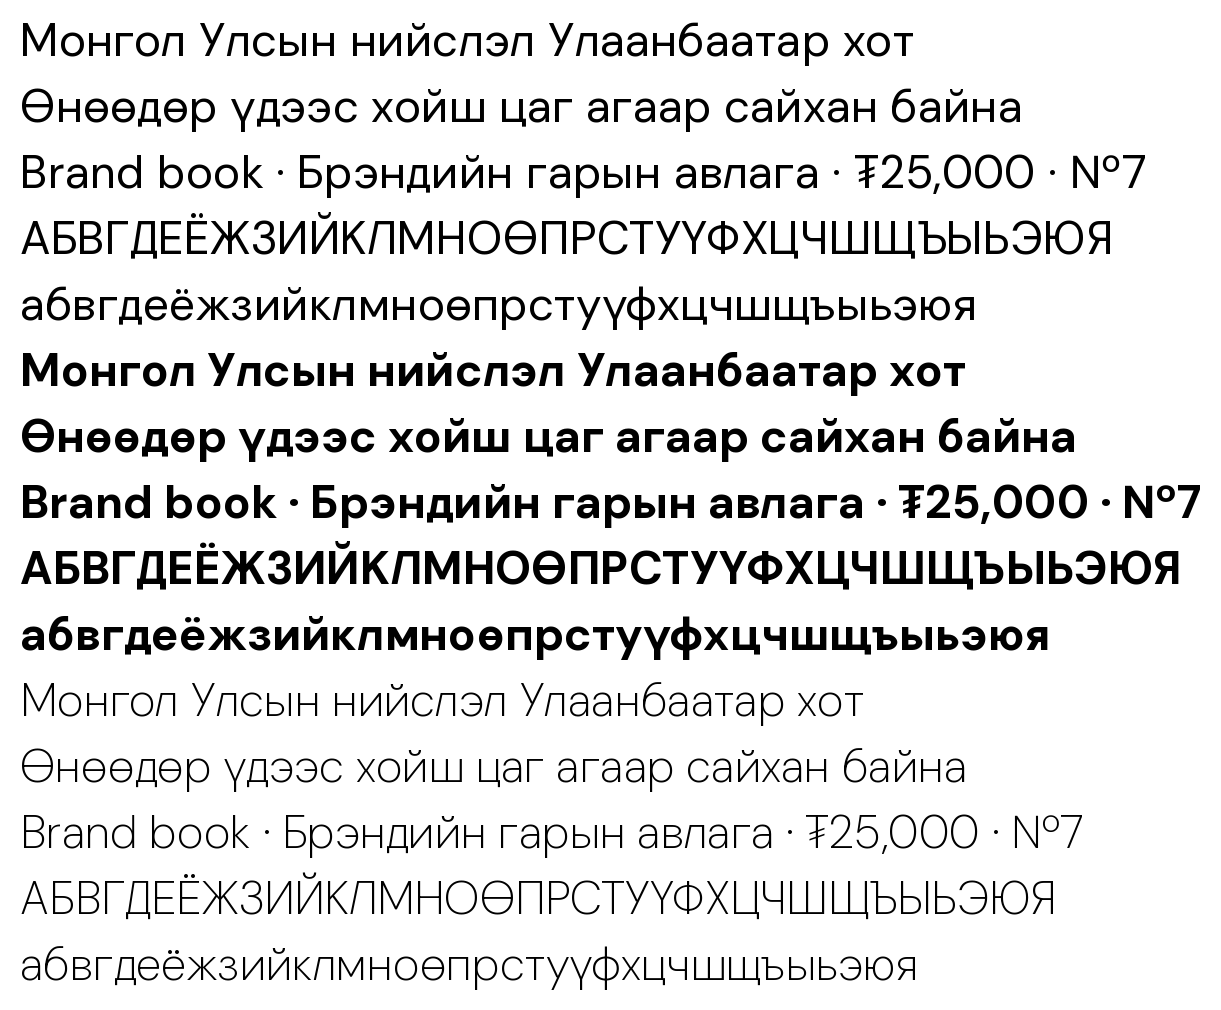
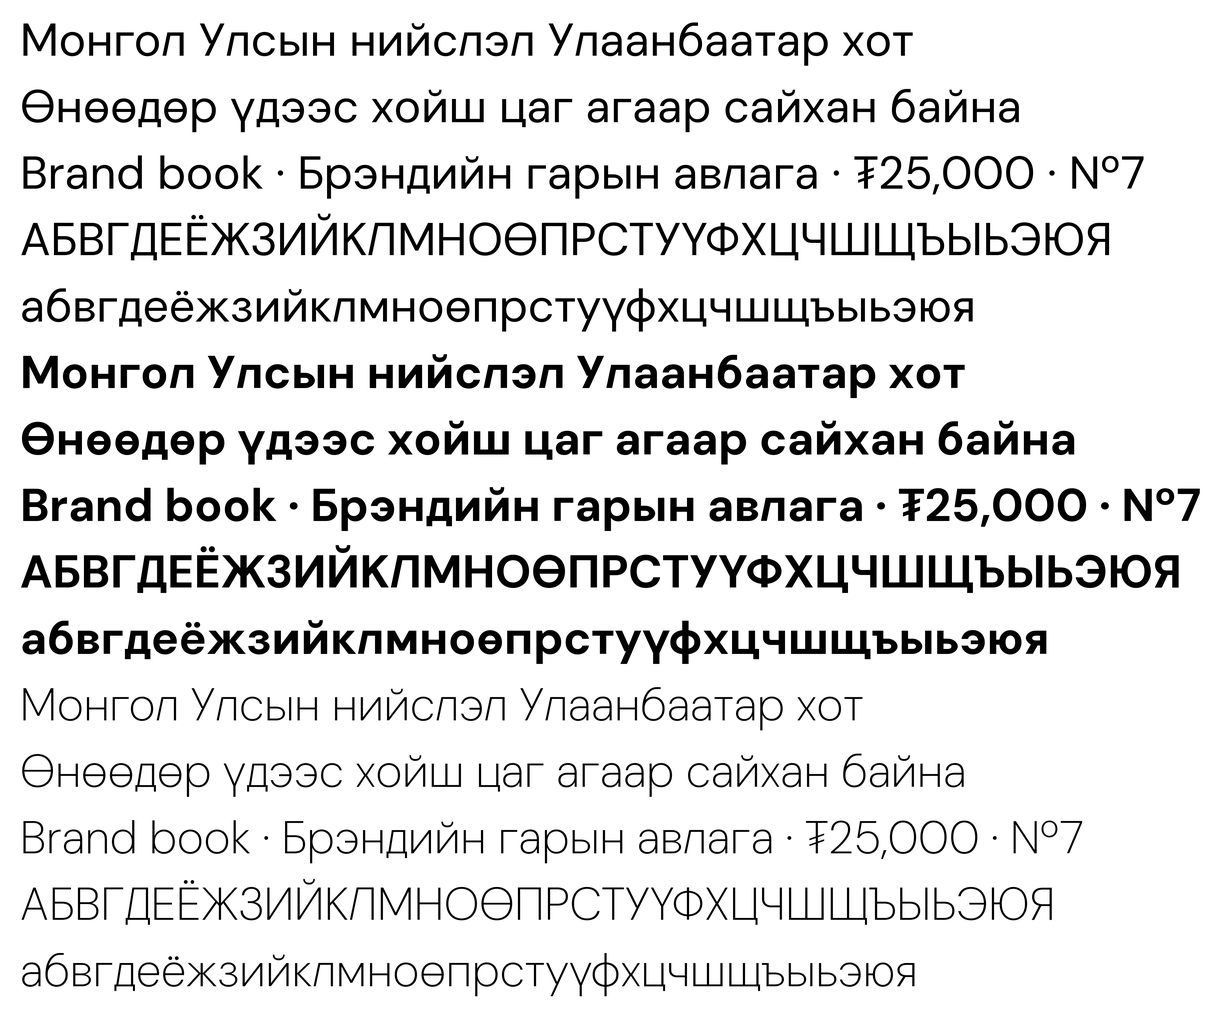
Render the specimen at sub-pixel accuracy
PIL snaps each glyph to a whole pixel, which made the README image show
uneven letter spacing that is not in the fonts.

Claude-Session: https://claude.ai/code/session_01Hc5Fe2g8y5PDTXSE1ZQTvA

diff --git a/tools/specimen.py b/tools/specimen.py
@@ -7,6 +7,8 @@ args = sys.argv[1:]
 italic = "--italic" in args
 args = [a for a in args if a != "--italic"]
 out, size, styles, lines = args[0], int(args[1]), args[2], args[3:]
+SS = 4  # draw oversized and scale down: PIL snaps each glyph to a whole pixel, which fakes uneven spacing
+final, size = size, size * SS
 path = "fonts/variable/DMSansMN-Italic[opsz,wght].ttf" if italic else "fonts/variable/DMSansMN[opsz,wght].ttf"
 rows = []
 for st in styles.split(";"):
@@ -16,11 +18,12 @@ for st in styles.split(";"):
     f.set_variation_by_axes([opsz if "ptical" in str(n) else wght for n in order])
     for ln in lines:
         rows.append((f, ln))
-W = max(int(f.getlength(ln)) for f, ln in rows) + 40
+W = max(int(f.getlength(ln)) for f, ln in rows) + 40 * SS
 lh = int(size * 1.45)
-im = Image.new("RGB", (W, lh * len(rows) + 20), "white")
+im = Image.new("RGB", (W, lh * len(rows) + 20 * SS), "white")
 d = ImageDraw.Draw(im)
 for i, (f, ln) in enumerate(rows):
-    d.text((20, 10 + i * lh), ln, font=f, fill="black")
+    d.text((20 * SS, 10 * SS + i * lh), ln, font=f, fill="black")
+im = im.resize((im.width // SS, im.height // SS), Image.LANCZOS)
 im.save(out)
 print(out, im.size)
